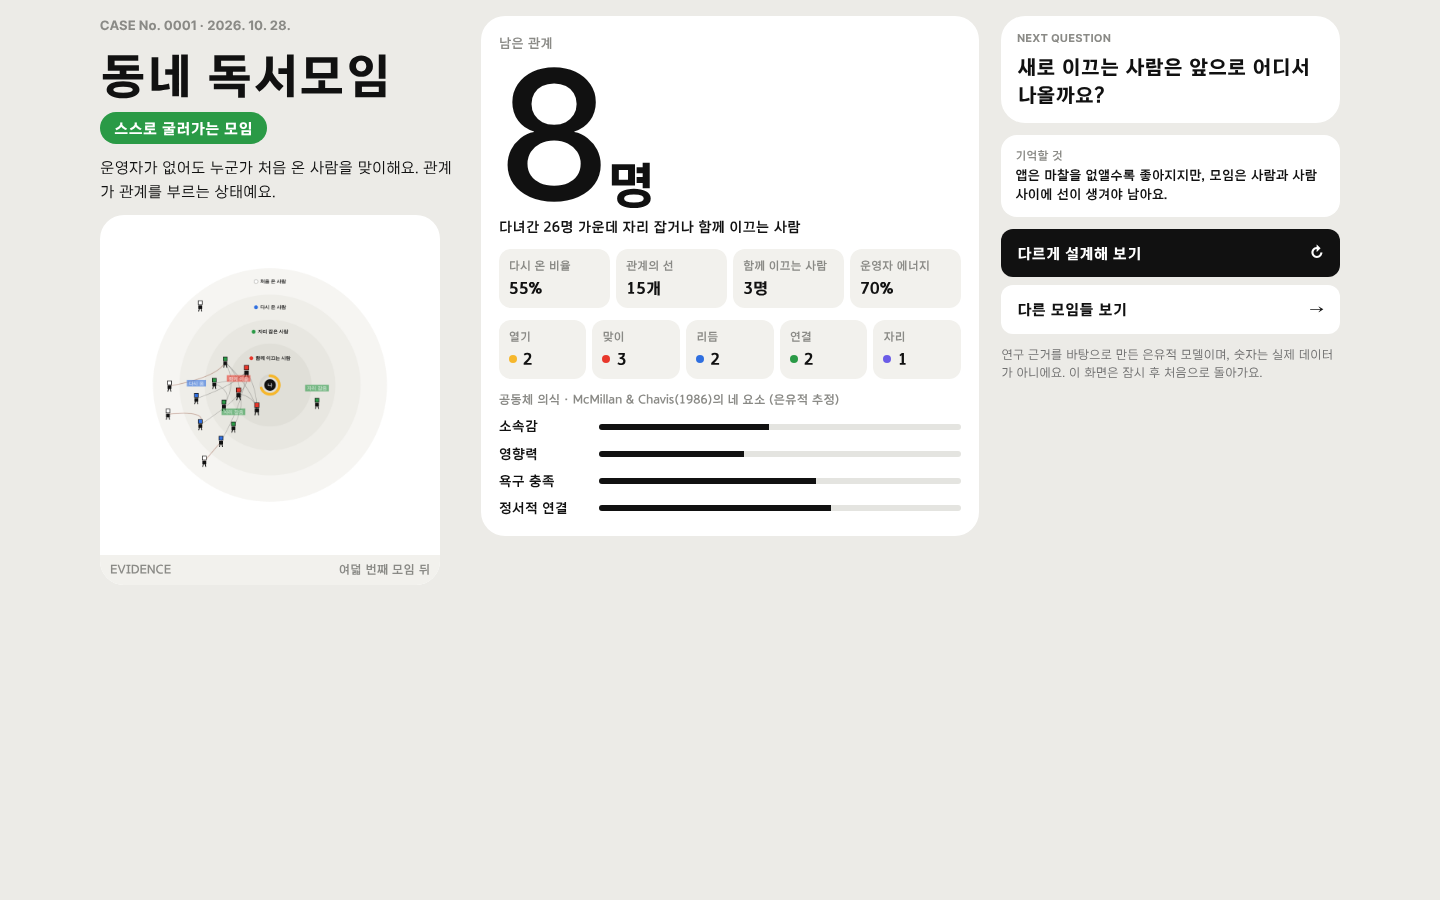
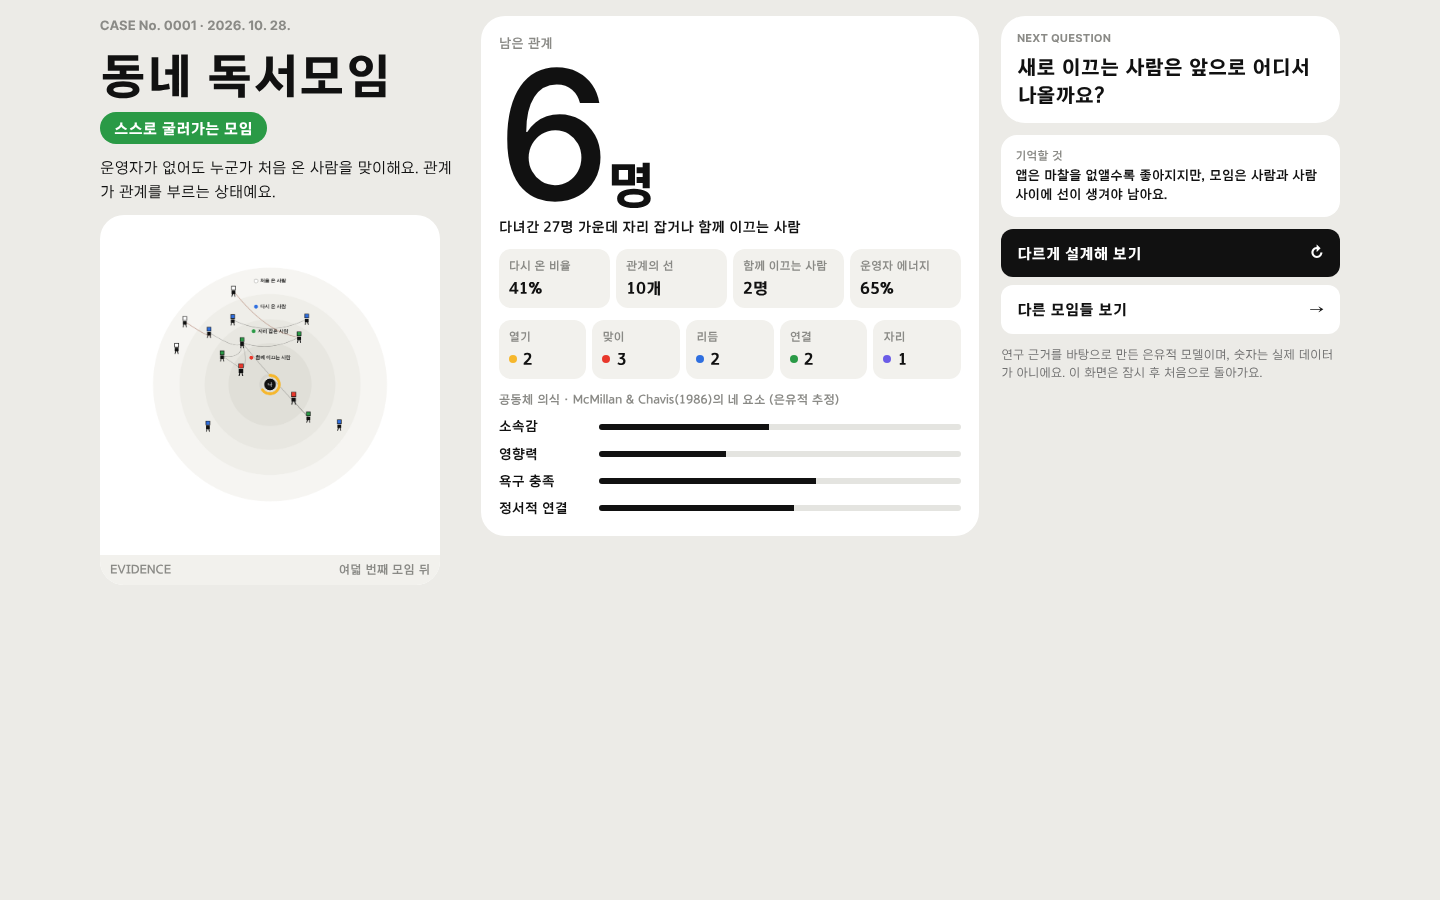
게임 v1.0 시안: 설명은 (i) 아이콘으로, 움직임으로 보이는 것은 글로 반복하지 않음
Claude-Session: https://claude.ai/code/session_01SaCvLutmawHZS3kxPWYxw7

diff --git a/thesis/game/moim.v07.src.html b/thesis/game/moim.v07.src.html
@@ -458,6 +458,23 @@ body{background:var(--page)}
 .e-num.low{color:var(--red)}
 .gauge{display:grid;grid-template-columns:repeat(12,minmax(0,1fr));gap:4px}
 .gauge i{height:22px;border-radius:7px;background:#e6e5df;transition:background .4s}
+
+/* ───────── v1.0 설명은 (i) 아이콘으로, 움직임으로 이미 보이는 것은 글로 다시 말하지 않음 ───────── */
+.info{position:relative;display:inline-grid;place-items:center;width:17px;height:17px;border-radius:50%;background:#e4e3dd;color:#6b6b67;font-family:var(--f-head);font-weight:700;font-size:11px;font-style:italic;cursor:help;vertical-align:middle;margin-left:6px;flex:none}
+.info:hover,.info:focus-visible,.info:focus{background:var(--ink);color:#fff;outline:none}
+.info .tip{position:absolute;left:-8px;top:calc(100% + 8px);width:240px;background:#fff;color:var(--ink);border-radius:var(--r-sm);box-shadow:0 10px 30px rgba(0,0,0,.16);padding:10px 12px;font-family:var(--f-body);font-style:normal;font-weight:700;font-size:13px;line-height:1.5;letter-spacing:0;text-align:left;text-transform:none;z-index:20;opacity:0;visibility:hidden;transform:translateY(-4px);transition:opacity .15s,transform .15s;pointer-events:none}
+.info:hover .tip,.info:focus-visible .tip,.info:focus .tip{opacity:1;visibility:visible;transform:none}
+.info .tip .neg{color:var(--red)}
+.info .tip small{color:var(--soft);font-size:11.5px}
+.pname{display:flex;align-items:center}
+.sk-name label{cursor:pointer}
+.sk{gap:2px}
+.c-top,.c-cap #cap,.c-key,.hints,.e-mid,.e-foot>span{display:none!important}
+.c-cap{pointer-events:auto;left:auto;right:14px;bottom:14px}
+.c-key2 .tip{left:auto;right:-8px;top:auto;bottom:calc(100% + 8px)}
+.e-head{position:relative}
+.e-head .ev{position:absolute;right:14px;top:16px}
+.e-head .ev .tip{left:auto;right:-8px}
 @media (prefers-reduced-motion:reduce){*{transition:none!important;animation:none!important}}
 </style>
 
@@ -550,7 +567,7 @@ function layout(snap){
       p.tx=Math.cos(A)*r;p.ty=Math.sin(A)*r;if(snap){p.x=p.tx;p.y=p.ty;p.alpha=1;}});
   }
 }
-function tag(p,text,color){st.tags.push({p,text,color,life:1});}
+function tag(){}
 
 // 한 번의 모임
 function step(){
@@ -816,9 +833,9 @@ function renderSelect(){
     <div class="e-bar"><span class="e-logo"><i></i>Community Entry</span><span class="e-mid">모임을 하나 고르세요. 같은 설계라도 모임마다 결과가 달라요.</span><span class="e-clock num">${clock}</span></div>
     <div class="e-cards">${TKEYS.map((k,i)=>{const v=TYPES[k];return `<button class="ecard" data-t="${k}" style="--c:${v.c}" aria-label="${v.name} 시작">
       <div class="e-img">${typeArt(k,v.c)}<div class="e-top"><span class="pill"><i class="dot" style="background:${v.c}"></i>TYPE ${'ABC'[i]}</span></div></div>
-      <div class="e-head"><span class="code">${v.code}</span><span class="sub">${v.name} · ${v.place} · ${v.when} ${v.time}</span></div>
+      <div class="e-head"><span class="code">${v.code}</span><span class="ev">${info(`근거 ${v.ev}: 선행연구에서 뽑은 발견 번호예요.`)}</span><span class="sub">${v.name} · ${v.place} · ${v.when} ${v.time}</span></div>
       <div class="cgrid e-cells">${[['유입',v.st[0]],['머무름',v.st[1]],['운영 부담',v.st[2]]].map(([n,x])=>`<div class="cell"><small>${n}</small><b>${x}<em>/5</em></b></div>`).join('')}</div>
-      <div class="e-txt"><p><b>특징</b>${v.plus}</p><p class="neg"><b>주의</b>${v.minus}</p><small>근거 ${v.ev}</small></div>
+      <div class="e-txt"><p><b>특징</b>${v.plus}</p><p class="neg"><b>주의</b>${v.minus}</p></div>
       <div class="e-go"><span>이 모임 운영하기</span><span>▶</span></div></button>`;}).join('')}</div>
     <div class="e-foot"><button class="btn ghost" id="back"><span>← 처음 화면</span></button><span>특징과 주의는 연구 근거 표의 발견(F 번호)에서 왔어요.</span></div></section>`;
   app.querySelectorAll('.ecard').forEach(b=>b.onclick=()=>newGame(b.dataset.t));
@@ -833,7 +850,7 @@ function renderTool(){
     <div class="panel" id="panel"></div>
     <div class="canvas-wrap"><canvas id="cv" role="img" aria-label="모임 현장: 바깥에서 안쪽으로 처음 온 사람, 다시 온 사람, 자리 잡은 사람, 함께 이끄는 사람"></canvas>
       <div class="c-top"><span><span class="latin">${T.en}</span> · ${T.name} · <span id="mt"></span></span></div>
-      <div class="c-cap"><span id="cap"></span>
+      <div class="c-cap"><span id="cap"></span><span class="c-key2">${info(`바깥에서 안쪽으로 ${STAGE_NAMES.join(' → ')}. 선은 사람 사이의 관계, 가운데는 나(운영자)와 에너지예요.`)}</span>
         <span class="c-key">${STAGE_NAMES.map((n,i)=>`<span><i class="dot" style="background:${STAGE_C[i]};${i===0?'box-shadow:inset 0 0 0 1.5px #9a9a96':''}"></i>${n}</span>`).join('')}<span><i style="width:18px;height:2px;background:#9a9a9a;display:inline-block;border-radius:2px"></i>관계 (새로 생기면 주황)</span><span><i class="sq" style="background:${COL.ink};border-radius:50%"></i>나와 에너지</span></span></div></div></div>
     <div class="hints"><span class="dots">●●●●</span><span>NAVIGATION</span><span><kbd>×</kbd>슬라이더로 포인트 나누기</span><span><kbd>○</kbd>모임 시작</span><span><kbd>←</kbd>처음 화면</span><span class="r">${T.code} · ${T.name} · 은유적 모델이에요</span></div>`;
   canvas=document.getElementById('cv');ctx=canvas.getContext('2d');
@@ -844,7 +861,7 @@ function sizeCanvas(){if(!canvas)return;const r=canvas.getBoundingClientRect(),d
 window.addEventListener('resize',()=>{sizeCanvas();if(!st&&screen==='intro'&&mapRedraw)mapRedraw();});
 // 지금 상황을 한 문장으로: 남은 관계와 운영자 에너지가 바뀔 때마다 문구도 바뀌어요
 function relMsg(n){
-  if(st.meeting===0)return '시작을 누르면 첫 모임이 열려요. 지금은 나와 친구 2명이에요.';
+  if(st.meeting===0)return '시작을 누르면 첫 모임이 열려요.';
   if(n===0)return '아직 자리 잡은 사람이 없어요. 처음 온 사람이 누군가와 이어져야 다시 와요.';
   if(n<=2)return '첫 관계가 자리 잡기 시작했어요.';
   if(n<=5)return '다시 오는 사람이 늘며 모임의 중심이 생기고 있어요.';
@@ -857,6 +874,8 @@ function energyMsg(e,leaders){
   if(leaders&&!up)m+=` 함께 이끄는 사람 ${leaders}명이 일을 나눠 들고 있어요.`;
   return m;
 }
+// (i) 아이콘: 마우스를 올리거나 눌러서 포커스하면 설명이 보여요
+function info(text){return `<span class="info" tabindex="0" role="button" aria-label="설명: ${text.replace(/<[^>]+>/g,'')}">i<span class="tip" role="tooltip">${text}</span></span>`;}
 function gauge(e){
   const N=12,on=Math.ceil(e/100*N),c=e>=50?'var(--green)':e>=30?'var(--yellow)':'var(--red)';
   return `<div class="gauge" role="meter" aria-valuemin="0" aria-valuemax="100" aria-valuenow="${e}" aria-label="운영자 에너지">${Array.from({length:N},(_,i)=>`<i style="${i<on?`background:${c}`:''}"></i>`).join('')}</div>`;
@@ -871,29 +890,26 @@ function renderPanel(){
   P.innerHTML=`
     <section class="pcard">
       <div class="cat"><i class="dot" style="background:${T.c}"></i>${T.code} · TYPE ${'ABC'[TKEYS.indexOf(st.type)]} · ${T.place} · ${T.when} ${T.time}</div>
-      <h2 class="pname">${T.name}</h2>
-      <div class="p-trait"><span>＋ ${T.plus}</span><span class="neg">－ ${T.minus}</span></div>
+      <h2 class="pname">${T.name}${info(`<b>특징</b> ${T.plus}<br><b class="neg">주의</b> ${T.minus}<br><small>근거 ${T.ev}</small>`)}</h2>
       <div class="goal3"><small>목표</small><p>여덟 번째 모임이 끝났을 때, <mark>서로 이어져 남아 있는 사람</mark>이 많은 모임</p></div>
       <div class="now">
-        <div class="now-n"><small>지금 남아 있는 관계</small><b class="hero-n">${rooted}<em>명</em></b><span>다녀간 사람 ${st.total+2}명</span></div>
+        <div class="now-n"><small>지금 남아 있는 관계${info('자리 잡은 사람과 함께 이끄는 사람의 수예요.')}</small><b class="hero-n">${rooted}<em>명</em></b><span>다녀간 사람 ${st.total+2}명</span></div>
         <div class="now-m"><small>모임</small><b class="hero-n">${st.meeting}<em>/${MEETINGS}</em></b><span class="steps">${Array.from({length:MEETINGS},(_,i)=>`<i class="${i<st.meeting?'on':''}${i===HALF-1?' half':''}"></i>`).join('')}</span></div>
       </div>
       <p class="msg">${relMsg(rooted)}</p>
     </section>
     <section class="pcard">
       <div class="ph"><h3>스킬 설계</h3>${editable?`<span class="pts3 ${st.points?'':'zero'}">남은 포인트 <b>${st.points}</b></span>`:`<span class="pts3 zero">진행 중</span>`}</div>
-      ${lv?`<div class="lvl2"><small>LEVEL UP · 모임 4번 뒤 진단</small><div class="row2"><b class="hero-n">+${st.gain}</b><span>포인트를 더 나눌 수 있어요</span></div><p>${diagnosis()}</p></div>`:''}
+      ${lv?`<div class="lvl2"><small>LEVEL UP · 모임 4번 뒤 진단</small><div class="row2"><b class="hero-n">+${st.gain}</b><span>포인트</span></div><p>${diagnosis()}</p></div>`:''}
       ${SKILLS.map(s=>{const v=st.skills[s.k],lk=st.lock[s.k];return `<div class="sk">
-        <div class="sk-row"><label class="sk-name" for="r-${s.k}"><i class="dot" style="background:${s.c}"></i>${s.name}<small>${s.en}</small></label><span class="sk-val">${v}<em>/${MAXLV}</em>${v>lk&&lv?`<ins>+${v-lk}</ins>`:''}</span></div>
-        <input type="range" id="r-${s.k}" data-k="${s.k}" min="0" max="${MAXLV}" step="1" value="${v}" style="--fill:${v/MAXLV*100}%;--c:${s.c}" ${editable?'':'disabled'}>
-        <span class="sk-desc">${s.sub}${s.down?` · <span class="neg">${s.down}</span>`:''}</span></div>`;}).join('')}
+        <div class="sk-row"><span class="sk-name"><i class="dot" style="background:${s.c}"></i><label for="r-${s.k}">${s.name}</label>${info(`${s.sub}${s.down?`<br><span class="neg">${s.down}</span>`:''}`)}</span><span class="sk-val">${v}<em>/${MAXLV}</em>${v>lk&&lv?`<ins>+${v-lk}</ins>`:''}</span></div>
+        <input type="range" id="r-${s.k}" data-k="${s.k}" min="0" max="${MAXLV}" step="1" value="${v}" style="--fill:${v/MAXLV*100}%;--c:${s.c}" ${editable?'':'disabled'}></div>`;}).join('')}
       ${editable?`<button class="btn" id="go"><span>${lv?'남은 모임 4번 진행':'모임 8번 시작'}</span><span>▶</span></button>`:`<button class="btn" disabled><span>모임 진행 중</span><span>…</span></button>`}
     </section>
     <section class="pcard">
-      <div class="ph"><h3>운영자 에너지</h3><b class="e-num ${e<30?'low':''}">${e}%</b></div>
+      <div class="ph"><h3>운영자 에너지${info('스킬을 많이 쓸수록 운영자가 바빠지고, 함께 이끄는 사람이 생기면 덜 지쳐요.')}</h3><b class="e-num ${e<30?'low':''}">${e}%</b></div>
       ${gauge(e)}
       <p class="msg">${energyMsg(e,leaders)}</p>
-      <span class="sk-desc">스킬을 많이 쓸수록 운영자가 바빠지고, 함께 이끄는 사람이 생기면 덜 지쳐요.</span>
     </section>
     <button class="btn ghost" id="quit"><span>처음 화면으로</span><span>←</span></button>`;
   P.querySelectorAll('input[type=range]').forEach(inp=>inp.oninput=()=>{

diff --git a/thesis/26-game-prototype.md b/thesis/26-game-prototype.md
@@ -99,3 +99,10 @@
 - 상자 2 스킬 설계: 남은 포인트 알약, 레벨업 진단, 슬라이더, 시작 버튼
 - 상자 3 운영자 에너지: 둥근 칸 12개 게이지(50% 이상 초록, 30~50% 노랑, 30% 미만 빨강) + 상황 문장(에너지 단계 5개, 에너지가 오르면 "함께 이끄는 사람 덕분에 숨을 돌렸어요", 이끄는 사람 수 안내)
 - 로그 표시 삭제, 캔버스 위 큰 숫자는 상자 1로 옮김
+
+## v1.0 시안 (2026-10-28, 같은 파일, 컨펌 대기)
+- 연구자 피드백: 쓸데없는 텍스트가 많음 → 설명은 (i) 아이콘에 마우스를 올리면 보이게. "못 이어져 떠남"처럼 움직임으로 이미 보이는 것을 글로 다시 설명하는 요소는 모두 없앰
+- (i)로 옮긴 것: 모임 특징·주의·근거, 스킬 설명(각 슬라이더), 운영자 에너지 설명, 남은 관계의 뜻, 캔버스 읽는 법, 모임 카드의 근거 번호
+- 없앤 것: 사람 머리 위 꼬리표(다시 옴·자리 잡음·떠남 등), 캔버스 아래 단계 자막과 범례, 캔버스 위 제목줄, 아래 조작 안내 줄, 모임 고르기의 안내 문장과 아래 문구, 레벨업 상자의 긴 문장
+- 남긴 것: 목표, 지금 남아 있는 관계, 모임 회차, 상황 문장 한 줄, 에너지 게이지와 상황 문장, 동심원 구역 이름
+- 결과: 시뮬레이션 화면이 데스크톱 한 화면(1440×900) 안에 들어옴
